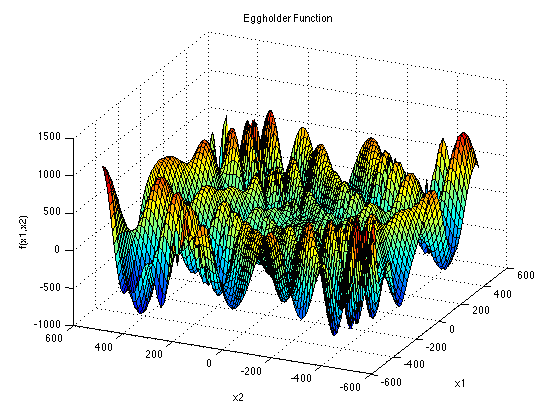
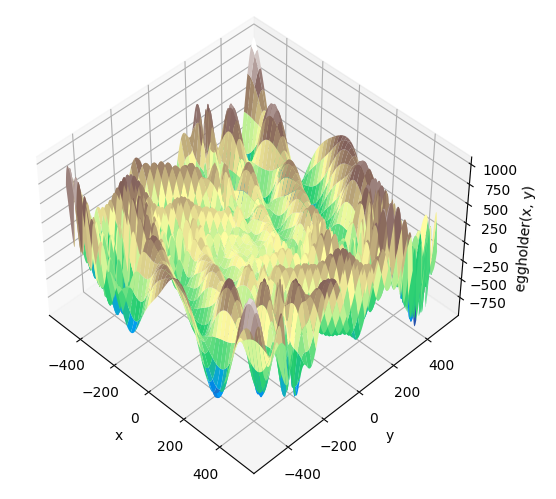
Changes for README

diff --git a/tutorial/README.md b/tutorial/README.md
@@ -51,6 +51,8 @@ The [Eggholder function](https://www.sfu.ca/~ssurjano/egg.html) is defined as:
 f(x, y) = -(y + 47) * sin(√|x/2 + (y + 47)|) - x * sin(√|x - (y + 47)|)
 ```
 
+![Eggholder function plot](examples/eggholder/smlp/media/eggholder_figure.png)<br>
+
 **Domain:** -512 ≤ x₁, x₂ ≤ 512
 
 **Expected Global Minimum:** f(x*) = -959.6407 at x* = (512, 404.2319)<br>
@@ -94,6 +96,8 @@ A classic textbook example of constrained optimization using Lagrange multiplier
 **Subject to:** x₁² + x₂² ≤ 1 (inside unit circle)
 
 **Geometric Interpretation:** Find the point on the unit circle closest to (2, 1)
+
+![Constrained DORA problem definition](examples/constraint_dora/smlp/media/problem.png)<br>
 
 #### Analytical Solution
 
@@ -180,6 +184,7 @@ Expected results reproduction:
 | 2.5 | 2.5 | 50 | 12.5 |
 | 5 | 3 | 136 | 4 |
 
+![BNH analytical and expected results comparison](examples/bnh/smlp/media/BNH.png)<br>
 
 [Reference: Test Case 2, Binh and Korn (1997)](https://web.archive.org/web/20190801183649/https://pdfs.semanticscholar.org/cf68/41a6848ca2023342519b0e0e536b88bdea1d.pdf)
 
@@ -196,24 +201,14 @@ In decision space:
 - Segment 2: x₁ ∈ [3, 5], x₂ = 3
 
 #### Files
-- `bnh_p1.json` through `bnh_p6.json` - Different objective weightings
+- `bnh.json` - SMLP configuration file
 - `bnh_dataset.py` - Dataset generator
 - `bnh_pareto_X1_expected.txt` - Expected Pareto X₁ values
 - `bnh_pareto_X2_expected.txt` - Expected Pareto X₂ values
 - `bnh_pareto_F1_expected.txt` - Expected Pareto F₁ values
 - `bnh_pareto_F2_expected.txt` - Expected Pareto F₂ values
 - `plot_results.py` - Visualization script for Pareto fronts
-
-#### Configuration Files
-
-Each configuration file (`bnh_p1.json` through `bnh_p6.json`) uses different objective weightings to explore the Pareto front:
-
-- `bnh_p1.json`: Minimize F₁ only
-- `bnh_p2.json`: Minimize 0.8F₁ + 0.2F₂
-- `bnh_p3.json`: Minimize 0.6F₁ + 0.4F₂
-- `bnh_p4.json`: Minimize 0.4F₁ + 0.6F₂
-- `bnh_p5.json`: Minimize 0.2F₁ + 0.8F₂
-- `bnh_p6.json`: Minimize F₂ only
+- `run_optimize.sh` - SMLP driver: Approximates Pareto front using the [weighted sum method](https://www.sciencedirect.com/topics/computer-science/weighted-sum-method) 
 
 #### Usage
 ```bash
@@ -233,12 +228,16 @@ Each configuration file (`bnh_p1.json` through `bnh_p6.json`) uses different obj
 
 #### Problem Definition
 
-Multi-Objective optimization problem with 64 objectives and 4 categorical parameters
+Multi-Objective optimization problem with 64 objectives and 4 categorical parameters.
+This is Intel I/0 test with lab data collected at Intel, the feature names and values are mangled. 
+The I/O system has two channels, two ranks, and 8 bytes. 
+Optimization objectives o1 and o2 stand for eye height and eye width.
+Total number of optimization objectives is `2*2*8*2=64`.
+The I/O system has four knobs of numeric type, for each a range of values (an interval) and grid of possible values within the interval is specified in the spec file. 
 
 #### Configuration File
 
 ../tests/bench/intel/specs/s2\_tx\_piv\_anonym.spec
-
 
 #### Input Dataset
 
@@ -276,6 +275,9 @@ Results will be shown on the screen and then saved to the png files:
 no_split_s2_tx_piv_anonym_optimization_results.png
 split_s2_tx_piv_anonym_optimization_results.png
 ```
+
+![NO\_SPLIT\_RESULT](examples/si/smlp/media/no_split_s2_tx_piv_anonym_optimization_results.png)<br>
+![SPLIT\_RESULT](examples/si/smlp/media/split_s2_tx_piv_anonym_optimization_results.png)<br>
 
 ### 5. Running all examples
 
